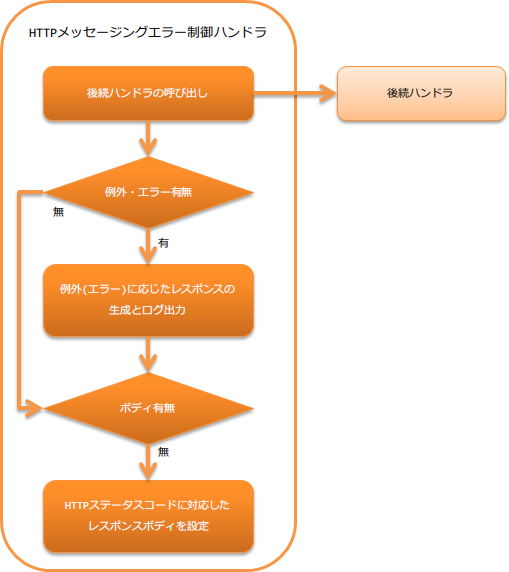
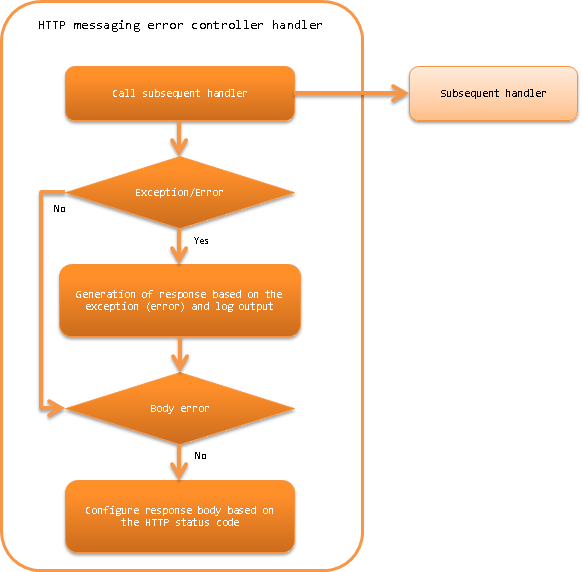
HTTPメッセージングエラー制御ハンドラページを英語化

diff --git a/en/application_framework/application_framework/handlers/http_messaging/http_messaging_error_handler.rst b/en/application_framework/application_framework/handlers/http_messaging/http_messaging_error_handler.rst
@@ -1,32 +1,32 @@
 .. _http_messaging_error_handler:
 
-HTTPメッセージングエラー制御ハンドラ
+HTTP Messaging Error Control Handler
 ==================================================
-.. contents:: 目次
+.. contents:: Table of contents
   :depth: 3
   :local:
 
-本ハンドラでは後続のハンドラで発生した例外及びエラーを補足し、例外(エラー)に応じたログ出力とレスポンスの生成を行う。
-また、後続のハンドラでレスポンスボディが設定されていない場合には、HTTPステータスコードに対応したデフォルトのボディをレスポンスに設定する。
+This handler catches exceptions and errors that occur in subsequent handlers, performs log output and generates response according to the exceptions (errors).
+If the response body is not configured in the subsequent handler, configures the default body corresponding to the HTTP status code in the response.
 
-本ハンドラでは、以下の処理を行う。
+This handler performs the following processes:
 
-* 例外(エラー)に応じたログ出力とレスポンスの生成を行う。
-  詳細は、 :ref:`http_messaging_error_handler-error_response_and_log` を参照。
+* Outputs the log output and generates response according to the exception (error).
+  For details, see :ref:`http_messaging_error_handler-error_response_and_log`.
 
-* デフォルトのレスポンスボディの設定を行う。
-  詳細は、 :ref:`http_messaging_error_handler-default_page` を参照。
+* Configures the default response body.
+  For details, see :ref:`http_messaging_error_handler-default_page`.
 
-処理の流れは以下のとおり。
+The process flow is as follows.
 
 .. image:: ../images/HttpMessagingErrorHandler/flow.png
   :scale: 75
-  
-ハンドラクラス名
+
+Handler class name
 --------------------------------------------------
 * :java:extdoc:`nablarch.fw.messaging.handler.HttpMessagingErrorHandler`
 
-モジュール一覧
+Module list
 --------------------------------------------------
 .. code-block:: xml
 
@@ -35,53 +35,53 @@ HTTPメッセージングエラー制御ハンドラ
     <artifactId>nablarch-fw-messaging-http</artifactId>
   </dependency>
 
-制約
+Constraints
 ------------------------------
-:ref:`http_response_handler` より後ろに配置すること
-  本ハンドラで生成した :java:extdoc:`HttpResponse <nablarch.fw.web.HttpResponse>` を :ref:`http_response_handler` が処理する。
-  このため、本ハンドラを :ref:`http_response_handler` より後ろに設定する必要がある。
+Place this handler after the :ref:`http_response_handler`
+  :java:extdoc:`HttpResponse <nablarch.fw.web.HttpResponse>` generated by this handler is processed by the :ref:`http_response_handler`.
+  Therefore, it is necessary that this handler is configured after the :ref:`http_response_handler`.
 
 .. _http_messaging_error_handler-error_response_and_log:
 
-例外の種類に応じたログ出力処理とレスポンスの生成
---------------------------------------------------------------
+Processes the log output and generates response according to the exception type
+---------------------------------------------------------------------------------------------------------
 :java:extdoc:`nablarch.fw.NoMoreHandlerException`
-  :ログレベル: INFO
-  :レスポンス: 404
-  :説明: リクエストを処理すべきハンドラが存在しなかったことを意味するため、証跡ログとして記録する。
-         また、処理すべき *action class* が存在しなかったことを意味するため、HTTPステータスコードが *404*  のレスポンスを生成する。
+  :Log level: INFO
+  :Response: 404
+  :Description: It is recorded as a trail log since it means that the handler to process the request is not available.
+         The HTTP status code generates a response of *404*, which means that there was no *action class* to process.
 
 :java:extdoc:`nablarch.fw.web.HttpErrorResponse`
-  :ログレベル: ログ出力なし
-  :レスポンス: :java:extdoc:`HttpErrorResponse#getResponse() <nablarch.fw.web.HttpErrorResponse.getResponse()>`
-  :説明: 後続のハンドラで業務例外(バリデーションなどを行った結果の例外)が発生したことを意味するので、ログ出力は行わない。
+  :Log level: No log output
+  :Response: :java:extdoc:`HttpErrorResponse#getResponse() <nablarch.fw.web.HttpErrorResponse.getResponse()>`
+  :Description: Log is not output because it means that a business exception (exception as a result of validation, etc.) was raised in a subsequent handler.
 
 :java:extdoc:`nablarch.fw.Result.Error`
-  :ログレベル: 設定による
-  :レスポンス: :java:extdoc:`Error#getStatusCode() <nablarch.fw.Result.Error.getStatusCode()>`
-  :説明: :ref:`http_messaging_error_handler-write_failure_log_pattern` を参照
+  :Log level: Depends on the configuration
+  :Response: :java:extdoc:`Error#getStatusCode() <nablarch.fw.Result.Error.getStatusCode()>`
+  :Description: Sed :ref:`http_messaging_error_handler-write_failure_log_pattern`.
 
-:java:extdoc:`nablarch.core.message.ApplicationException` と :java:extdoc:`nablarch.fw.messaging.MessagingException`
-  :ログレベル: \-
-  :レスポンス: 400
-  :説明: クライアントからのリクエストが不正であることを示す例外のため、HTTPステータスコードが *400* のレスポンスを生成する。
+:java:extdoc:`nablarch.core.message.ApplicationException` and :java:extdoc:`nablarch.fw.messaging.MessagingException`
+  :Log level: \-
+  :Response: 400
+  :Description: The HTTP status code generates a response of *400* because of an exception indicating that the request from the client is incorrect.
 
-上記以外の例外及びエラー
-  :ログレベル: FATAL
-  :レスポンス: 500
-  :説明: 上記に該当しない例外及びエラーの場合には、障害扱いとしてログ出力を行う。
-         また、予期しない例外やエラーであるため、レスポンスは **500** としている。
+Exceptions and errors other than the above
+  :Log level: FATAL
+  :Response: 500
+  :Description: For exceptions and errors that do not correspond to the above, log is output as a failure.
+         The response is **500** because it is an unexpected exception or error.
 
 .. _http_messaging_error_handler-write_failure_log_pattern:
 
-nablarch.fw.Result.Errorのログ出力について
+Log output of nablarch.fw.Result.Error
 ~~~~~~~~~~~~~~~~~~~~~~~~~~~~~~~~~~~~~~~~~~~~~~
-後続のハンドラで発生した例外が、 :java:extdoc:`Error <nablarch.fw.Result.Error>` の場合はログ出力を行うかどうかは、
-:java:extdoc:`writeFailureLogPattern <nablarch.fw.web.handler.HttpErrorHandler.setWriteFailureLogPattern(java.lang.String)>` に設定した値によって変わる。
-このプロパティには正規表現が設定でき、その正規表現が :java:extdoc:`Error#getStatusCode() <nablarch.fw.Result.Error.getStatusCode()>` とマッチした場合に `FATAL` レベルのログを出力する。
+If the exception raised in the subsequent handler is :java:extdoc:`Error <nablarch.fw.Result.Error>`,
+then whether to output the log changes depending on the value configured in :java:extdoc:`writeFailureLogPattern <nablarch.fw.web.handler.HttpErrorHandler.setWriteFailureLogPattern(java.lang.String)>`.
+A regular expression can be configured to this property, and if the regular expression matches :java:extdoc:`Error#getStatusCode() <nablarch.fw.Result.Error.getStatusCode()>`, a `FATAL` level log is output.
 
 .. _http_messaging_error_handler-default_page:
 
-レスポンスボディが空の場合のデフォルトレスポンスの設定
---------------------------------------------------------
-詳細は、 :ref:`HTTPエラー制御ハンドラのデフォルトページの設定 <HttpErrorHandler_DefaultPage>` を参照。
+Setting a default response when the response body is empty
+--------------------------------------------------------------------------------------------------
+For details, see :ref:`Configuration of the default page of HTTP error control handler <HttpErrorHandler_DefaultPage>`.
